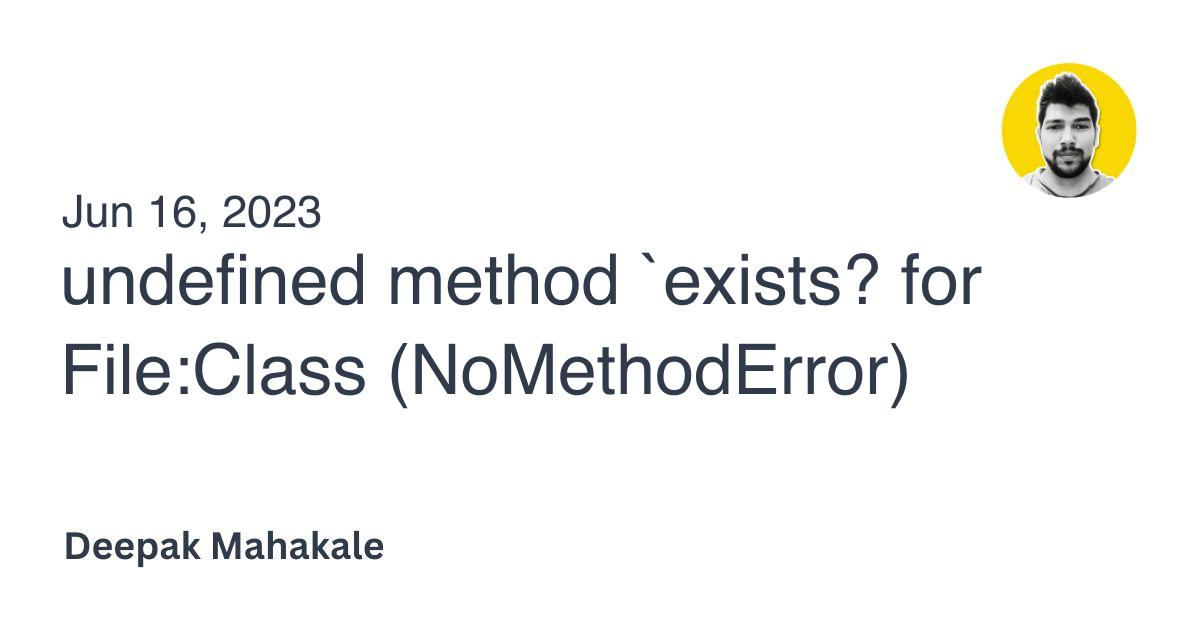
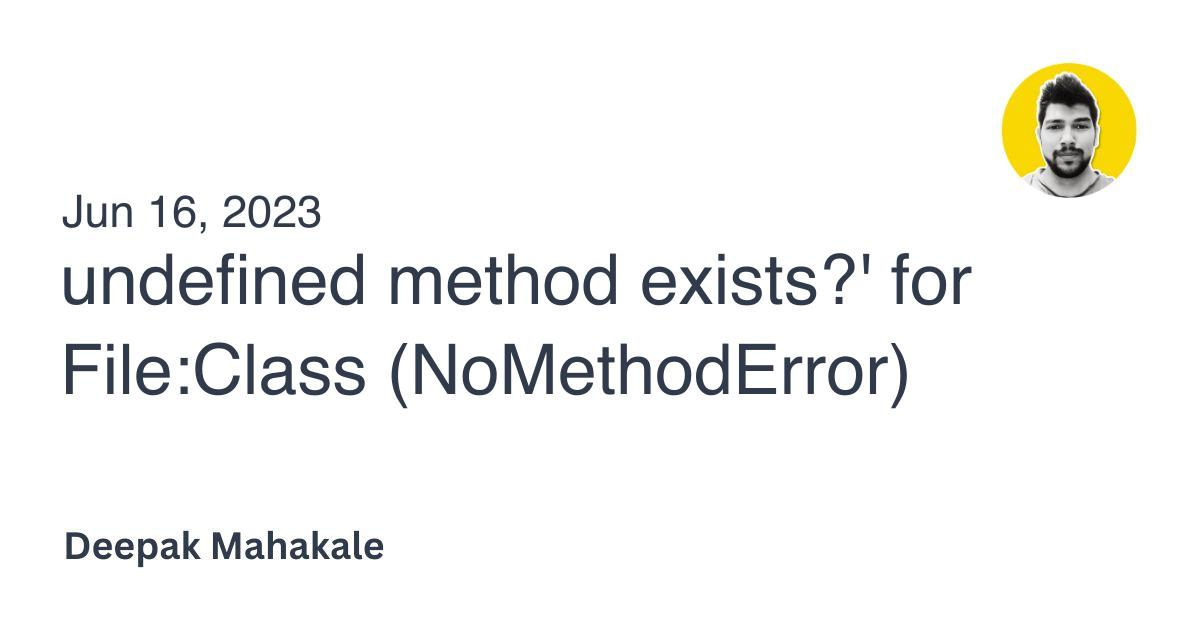
Images

Changed region(s): [[0.5242, 0.3921, 0.8325, 0.4825]]

diff --git a/_plugins/jekyll/opengraph.rb b/_plugins/jekyll/opengraph.rb
@@ -19,8 +19,12 @@ module Jekyll
       else
         title = context['page']['title'].tr('`', '').tr('"', "\'")
         # the script to be called with the formatted title, and resolving filename
-        script = "node #{Dir.pwd}/opengraph.js -t \"#{title}\" -a '#{context['page']['author']}' -d '#{context['page']['date'].strftime('%b %e, %Y')}' -f '#{full_file_path}'"
-
+        script = <<~COMMAND
+          node #{Dir.pwd}/opengraph.js \
+            -t \"#{title}\" \
+            -d '#{context['page']['date'].strftime('%b %e, %Y')}' \
+            -f '#{full_file_path}'
+        COMMAND
         system(script)
 
         puts script
